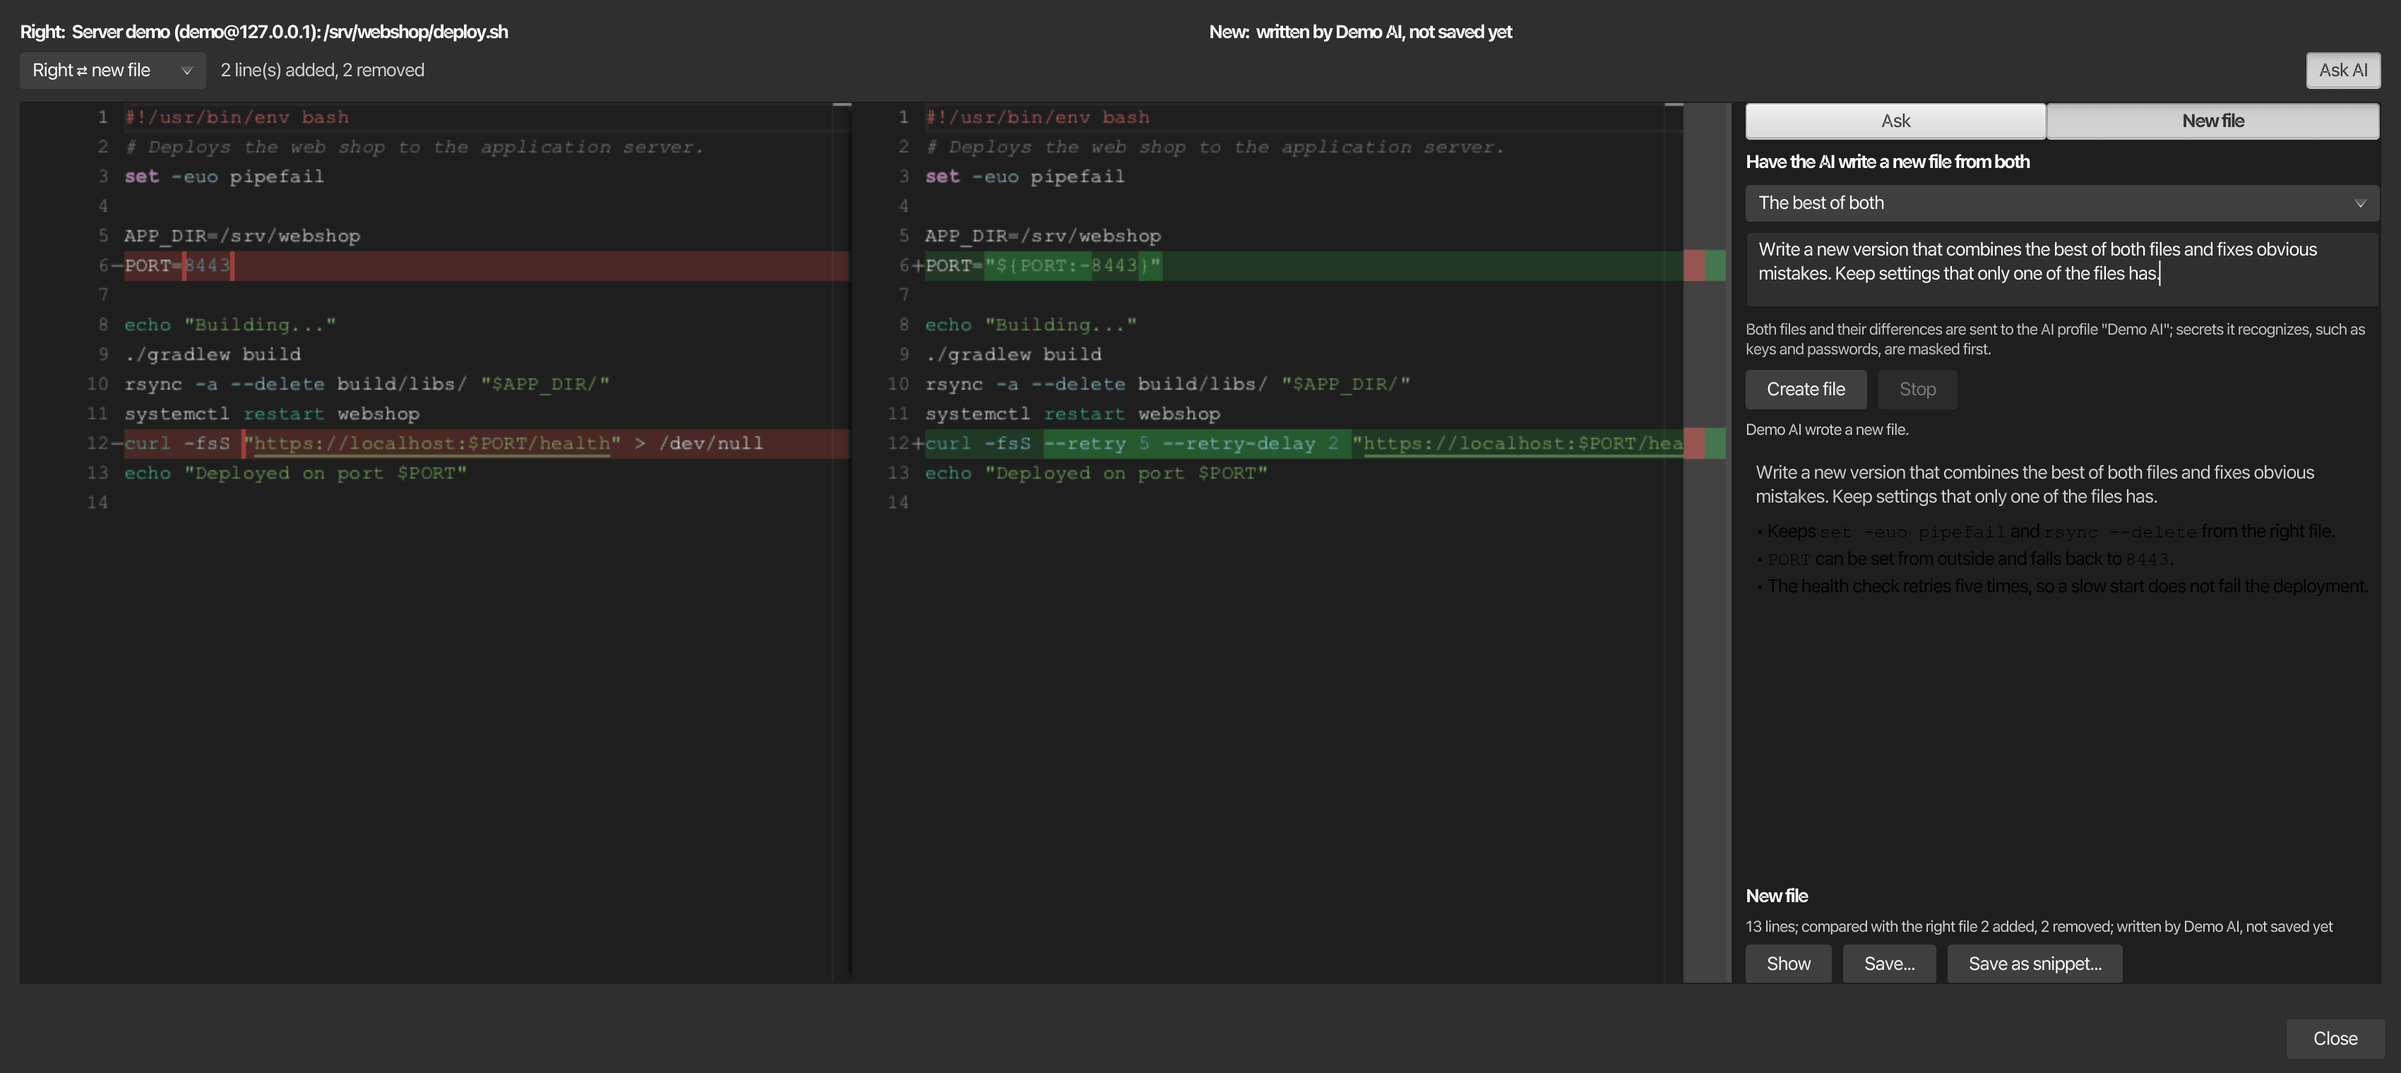
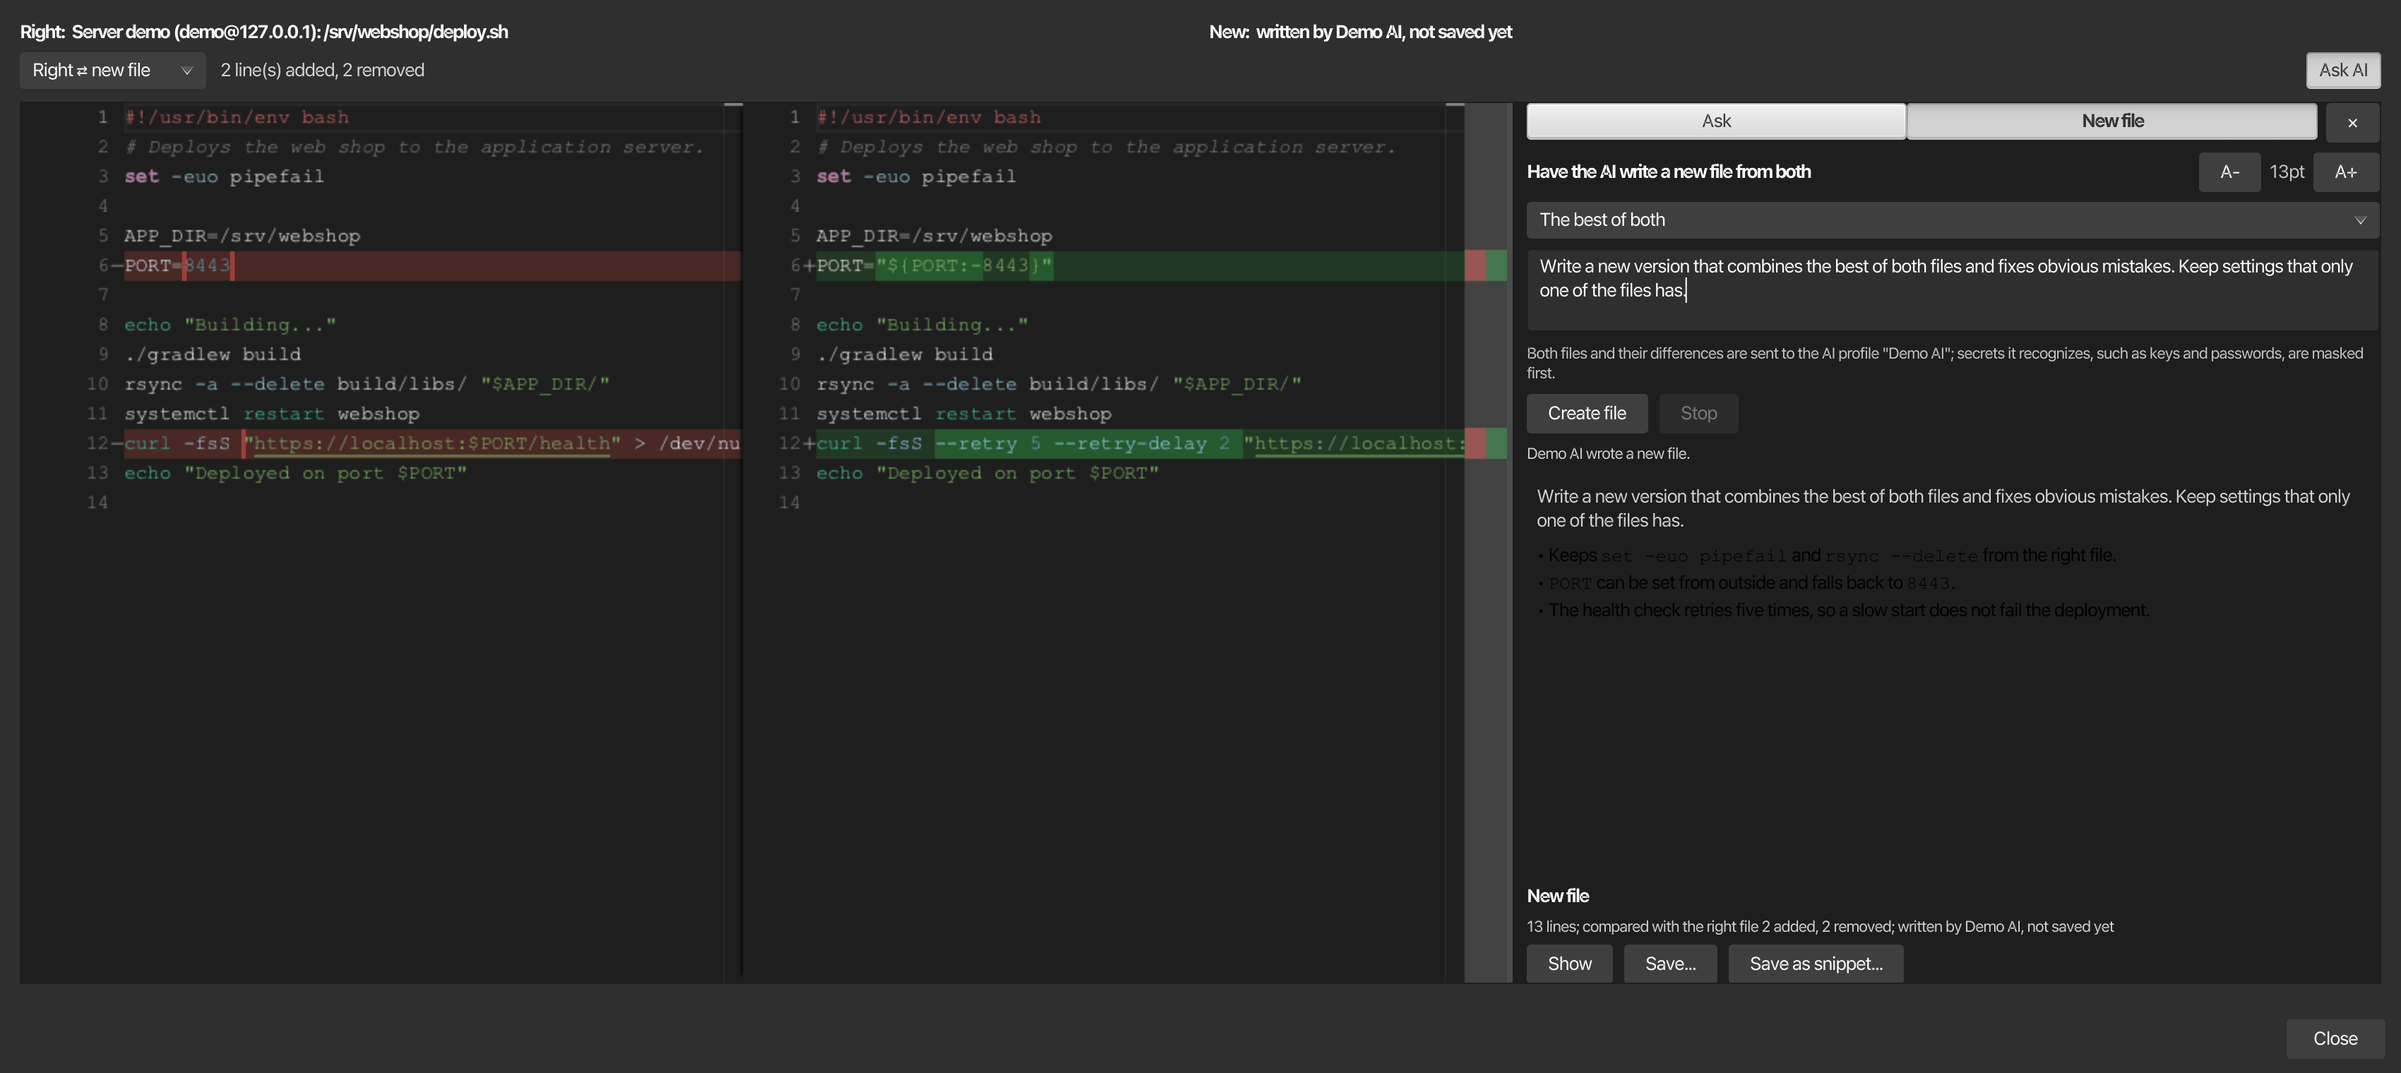
SFTP file comparison: AI panel font size and hide button
- A- and A+ beside the AI panel's title (and Cmd/Ctrl with + and -)
  size the question and the answers from 9 to 32 px; the shown answer is
  drawn again at the new size, a streaming one picks it up itself. The
  size is kept in the global settings (sftpDiffAiFontSize, default 13).
- A cross at the panel's top right hides it and gives its width back to
  the window; "Ask AI" shows it again with the last answer.
- Guide: both controls in "Asking the AI"; German regenerated; the two
  file-diff screenshots show them. Manifest synced to b5d8d935.
- SftpManagerScreenshotGenerator checks A+/A- (size, re-render, saved
  setting) and hiding/showing (panel gone, width given back, answer kept).

Changed region(s): [[0.3118, 0.0928, 0.9976, 0.9276], [0.3429, 0.0928, 0.4676, 0.1855], [0.4676, 0.1237, 0.5612, 0.1546]]

diff --git a/src/main/java/de/kortty/ui/SftpFileDiffDialog.java b/src/main/java/de/kortty/ui/SftpFileDiffDialog.java
@@ -163,7 +163,10 @@ final class SftpFileDiffDialog extends ThemeAwareDialog<Void> {
         "sftp.diff.ai.newFile.leftIntoRight",
         "sftp.diff.ai.newFile.own");
 
-    private static final int ANSWER_FONT_SIZE = 13;
+    /** The AI panel's font size (question and answers) unless one was chosen; kept in the settings. */
+    static final int DEFAULT_AI_FONT_SIZE = 13;
+    static final int MIN_AI_FONT_SIZE = 9;
+    static final int MAX_AI_FONT_SIZE = 32;
     /** How much wider the window gets for the AI panel, so the diff keeps its two columns. */
     static final double AI_PANEL_WIDTH = 460;
 
@@ -210,6 +213,11 @@ final class SftpFileDiffDialog extends ThemeAwareDialog<Void> {
     private String newFile;
     /** Who wrote the new file, or where it was saved last, as its header shows it. */
     private String newFileOrigin;
+    private int aiFontSize = clampAiFontSize(loadAiFontSize());
+    private Label aiFontSizeLabel;
+    /** The last question and its rendered answer (Markdown), drawn again when the font size changes. */
+    private String lastAsked;
+    private String lastAnswer;
 
     SftpFileDiffDialog(Window owner, Side left, Side right, AiAccess ai) {
         this(owner, left, right, ai, null);
@@ -462,9 +470,51 @@ final class SftpFileDiffDialog extends ThemeAwareDialog<Void> {
                 markSelectedMode();
             }
         });
+        // Hides the panel when it is in the way; "Ask AI" brings it back with the last answer.
+        Button hide = new Button("\u2715");
+        hide.getStyleClass().add("sftp-diff-ai-hide");
+        hide.setTooltip(new Tooltip(I18n.get("sftp.diff.ai.hide")));
+        hide.setAccessibleText(I18n.get("sftp.diff.ai.hide"));
+        hide.setOnAction(event -> {
+            askToggle.setSelected(false);
+            showAiPanel(false);
+        });
         HBox modeRow = new HBox(0, askMode, newFileMode);
         modeRow.getStyleClass().add("sftp-diff-ai-modes");
-        panel.getChildren().addAll(modeRow, aiTitle);
+        HBox.setHgrow(modeRow, Priority.ALWAYS);
+        HBox topRow = new HBox(6, modeRow, hide);
+        topRow.setAlignment(Pos.CENTER_LEFT);
+
+        Button smaller = new Button(I18n.get("editor.zoomOut"));
+        smaller.setTooltip(new Tooltip(I18n.get("menu.view.zoomOut")));
+        smaller.setOnAction(event -> changeAiFontSize(-1));
+        Button larger = new Button(I18n.get("editor.zoomIn"));
+        larger.setTooltip(new Tooltip(I18n.get("menu.view.zoomIn")));
+        larger.setOnAction(event -> changeAiFontSize(1));
+        smaller.getStyleClass().add("sftp-diff-ai-smaller");
+        larger.getStyleClass().add("sftp-diff-ai-larger");
+        aiFontSizeLabel = new Label();
+        aiFontSizeLabel.setStyle("-fx-opacity: 0.75;");
+        aiTitle.setMaxWidth(Double.MAX_VALUE);
+        HBox.setHgrow(aiTitle, Priority.ALWAYS);
+        HBox titleRow = new HBox(6, aiTitle, smaller, aiFontSizeLabel, larger);
+        titleRow.setAlignment(Pos.CENTER_LEFT);
+        panel.getChildren().addAll(topRow, titleRow);
+        // Cmd/Ctrl with + and - size the panel's text, as in the other AI windows.
+        panel.addEventFilter(javafx.scene.input.KeyEvent.KEY_PRESSED, event -> {
+            if (!event.isShortcutDown()) {
+                return;
+            }
+            javafx.scene.input.KeyCode code = event.getCode();
+            if (code == javafx.scene.input.KeyCode.PLUS || code == javafx.scene.input.KeyCode.ADD
+                || code == javafx.scene.input.KeyCode.EQUALS) {
+                changeAiFontSize(1);
+                event.consume();
+            } else if (code == javafx.scene.input.KeyCode.MINUS || code == javafx.scene.input.KeyCode.SUBTRACT) {
+                changeAiFontSize(-1);
+                event.consume();
+            }
+        });
 
         List<AiProfile> profiles = ai.profiles();
         AiProfile chosen = ai.defaultProfile() != null ? ai.defaultProfile() : profiles.get(0);
@@ -534,12 +584,80 @@ final class SftpFileDiffDialog extends ThemeAwareDialog<Void> {
         ScrollPane answers = new ScrollPane(answerBox);
         answers.setFitToWidth(true);
         VBox.setVgrow(answers, Priority.ALWAYS);
-        streaming = new AiChatStreamingView(answerBox, () -> ANSWER_FONT_SIZE,
+        streaming = new AiChatStreamingView(answerBox, () -> aiFontSize,
             () -> profileChoice.getValue() != null ? profileChoice.getValue().getName() : "",
             () -> aiStatus.setText(I18n.get("sftp.diff.ai.receiving")));
 
         panel.getChildren().addAll(presets, question, privacyNote, buttons, aiStatus, answers, createNewFileBar());
+        applyAiFontSize();
         return panel;
+    }
+
+    /** Makes the AI panel's text {@code delta} larger or smaller and remembers the size. */
+    private void changeAiFontSize(int delta) {
+        int next = clampAiFontSize(aiFontSize + delta);
+        if (next == aiFontSize) {
+            return;
+        }
+        aiFontSize = next;
+        applyAiFontSize();
+        saveAiFontSize(next);
+    }
+
+    /** Sizes the question and draws the shown answer again; a streaming answer picks it up itself. */
+    private void applyAiFontSize() {
+        aiFontSizeLabel.setText(aiFontSize + "pt");
+        question.setStyle("-fx-font-size: " + aiFontSize + "px;");
+        if (lastAsked != null && (streaming == null || !streaming.isActive())) {
+            renderAnswer();
+        } else if (!answerBox.getChildren().isEmpty() && answerBox.getChildren().get(0) instanceof Label asked) {
+            styleAsked(asked);
+        }
+    }
+
+    /** The question asked last and, once there is one, its answer, at the current size. */
+    private void renderAnswer() {
+        Label asked = new Label(lastAsked);
+        asked.setWrapText(true);
+        styleAsked(asked);
+        answerBox.getChildren().setAll(asked);
+        if (lastAnswer != null) {
+            AiChatRenderSupport.renderInto(answerBox, true, lastAnswer, aiFontSize);
+        }
+    }
+
+    private void styleAsked(Label asked) {
+        asked.setStyle("-fx-font-style: italic; -fx-opacity: 0.8; -fx-font-size: " + aiFontSize + "px;");
+    }
+
+    static int clampAiFontSize(int size) {
+        return Math.max(MIN_AI_FONT_SIZE, Math.min(MAX_AI_FONT_SIZE, size));
+    }
+
+    private static int loadAiFontSize() {
+        de.kortty.model.GlobalSettings settings = SnippetAiDialogSupport.currentSettings();
+        return settings != null && settings.getSftpDiffAiFontSize() != null
+            ? settings.getSftpDiffAiFontSize()
+            : DEFAULT_AI_FONT_SIZE;
+    }
+
+    private static void saveAiFontSize(int size) {
+        try {
+            de.kortty.core.GlobalSettingsManager manager =
+                de.kortty.KorTTYApplication.getInstance().getGlobalSettingsManager();
+            de.kortty.model.GlobalSettings settings = manager.getSettings();
+            if (settings != null) {
+                settings.setSftpDiffAiFontSize(size);
+                manager.save();
+            }
+        } catch (Exception e) {
+            // The size still applies to this window; it is only not remembered.
+            LoggerHolder.LOGGER.warn("Could not save the AI panel's font size", e);
+        }
+    }
+
+    private static final class LoggerHolder {
+        private static final org.slf4j.Logger LOGGER = org.slf4j.LoggerFactory.getLogger(SftpFileDiffDialog.class);
     }
 
     /** What to do with the new file: show it in the diff, save it, keep it as a snippet. Hidden until there is one. */
@@ -644,11 +762,9 @@ final class SftpFileDiffDialog extends ThemeAwareDialog<Void> {
             ? AiFileComparison.newFileRequest(masked.text(), text, ai.connectionName(), languageCode)
             : AiFileComparison.request(masked.text(), text, ai.connectionName(), languageCode);
         AiService service = ai.service(profile);
-        answerBox.getChildren().clear();
-        Label askedText = new Label(text);
-        askedText.setWrapText(true);
-        askedText.setStyle("-fx-font-style: italic; -fx-opacity: 0.8;");
-        answerBox.getChildren().add(askedText);
+        lastAsked = text;
+        lastAnswer = null;
+        renderAnswer();
         AiRequest streamed = request.withStreamListener(streaming.begin());
         Task<AiExecutionResult> task = new Task<>() {
             @Override
@@ -671,15 +787,15 @@ final class SftpFileDiffDialog extends ThemeAwareDialog<Void> {
             } else if (asked == Mode.NEW_FILE) {
                 Optional<AiFileComparison.NewFile> written = AiFileComparison.newFile(content);
                 if (written.isPresent()) {
-                    AiChatRenderSupport.renderInto(answerBox, true, written.get().explanation(), ANSWER_FONT_SIZE);
+                    showAnswer(written.get().explanation());
                     takeNewFile(written.get().content(), profile.getName());
                     aiStatus.setText(I18n.get("sftp.diff.ai.created", profile.getName()));
                 } else {
-                    AiChatRenderSupport.renderInto(answerBox, true, content, ANSWER_FONT_SIZE);
+                    showAnswer(content);
                     aiStatus.setText(I18n.get("sftp.diff.ai.noFile"));
                 }
             } else {
-                AiChatRenderSupport.renderInto(answerBox, true, content, ANSWER_FONT_SIZE);
+                showAnswer(content);
                 aiStatus.setText(I18n.get("sftp.diff.ai.done", profile.getName()));
             }
             ai.recordUsage(profile, request, result);
@@ -697,6 +813,11 @@ final class SftpFileDiffDialog extends ThemeAwareDialog<Void> {
                     error != null && error.getMessage() != null ? error.getMessage() : String.valueOf(error)));
         });
         AiTaskRunner.start(task, "sftp-diff-ai");
+    }
+
+    private void showAnswer(String markdown) {
+        lastAnswer = markdown;
+        renderAnswer();
     }
 
     private void finish(Task<AiExecutionResult> task) {
@@ -812,6 +933,10 @@ final class SftpFileDiffDialog extends ThemeAwareDialog<Void> {
 
     ToggleButton newFileMode() {
         return newFileMode;
+    }
+
+    int aiFontSize() {
+        return aiFontSize;
     }
 
     VBox newFileBar() {

diff --git a/src/test/java/de/kortty/ui/SftpManagerScreenshotGenerator.java b/src/test/java/de/kortty/ui/SftpManagerScreenshotGenerator.java
@@ -571,6 +571,43 @@ public final class SftpManagerScreenshotGenerator {
         check(asked[0].selectedText().contains("RIGHT FILE: ") && asked[0].selectedText().contains("+set -euo pipefail"),
             "both files and their diff are sent");
         check(recorded[0], "the usage is recorded");
+        // A+ and A- size the panel's text, draw the answer again and are remembered in the settings.
+        int fontBefore = fx(() -> aiDialog[0].aiFontSize());
+        int answerParts = fx(() -> aiDialog[0].answerBox().getChildren().size());
+        fx(() -> {
+            ((Button) aiDialog[0].getDialogPane().lookup(".sftp-diff-ai-larger")).fire();
+            ((Button) aiDialog[0].getDialogPane().lookup(".sftp-diff-ai-larger")).fire();
+            return null;
+        });
+        check(fx(() -> aiDialog[0].aiFontSize()) == fontBefore + 2, "A+ makes the text larger");
+        check(fx(() -> aiDialog[0].answerBox().getChildren().size()) == answerParts, "the answer is drawn again, not lost");
+        check(fx(() -> aiDialog[0].question().getStyle()).contains("-fx-font-size: " + (fontBefore + 2) + "px"),
+            "the question grows too");
+        KorTTYApplication settingsApp = field(KorTTYApplication.class, "app");
+        check(Integer.valueOf(fontBefore + 2).equals(fx(() -> settingsApp.getGlobalSettingsManager().getSettings()
+            .getSftpDiffAiFontSize())), "the size is kept in the settings");
+        fx(() -> {
+            ((Button) aiDialog[0].getDialogPane().lookup(".sftp-diff-ai-smaller")).fire();
+            ((Button) aiDialog[0].getDialogPane().lookup(".sftp-diff-ai-smaller")).fire();
+            return null;
+        });
+        check(fx(() -> aiDialog[0].aiFontSize()) == fontBefore, "A- makes it smaller again");
+        // The cross hides the panel and gives the width back; "Ask AI" brings it back with the answer.
+        double widthWithPanel = fx(() -> aiDialog[0].getDialogPane().getScene().getWindow().getWidth());
+        fx(() -> {
+            ((Button) aiDialog[0].getDialogPane().lookup(".sftp-diff-ai-hide")).fire();
+            return null;
+        });
+        check(fx(() -> aiDialog[0].getDialogPane().lookup(".sftp-diff-ai-panel")) == null, "the panel is hidden");
+        check(!fx(() -> aiDialog[0].askToggle().isSelected()), "Ask AI is no longer pressed");
+        check(fx(() -> aiDialog[0].getDialogPane().getScene().getWindow().getWidth()) < widthWithPanel - 300,
+            "the window gives the panel's width back");
+        fx(() -> {
+            aiDialog[0].askToggle().fire();
+            return null;
+        });
+        check(fx(() -> aiDialog[0].getDialogPane().lookup(".sftp-diff-ai-panel")) != null, "Ask AI shows it again");
+        check(fx(() -> aiDialog[0].answerBox().getChildren().size()) == answerParts, "with the last answer");
         settle();
         double after = fx(() -> aiDialog[0].getDialogPane().getScene().getWindow().getWidth());
         check(after > before + 300, "opening the AI panel widens the window, " + before + " -> " + after);

diff --git a/src/main/java/de/kortty/model/GlobalSettings.java b/src/main/java/de/kortty/model/GlobalSettings.java
@@ -872,6 +872,10 @@ public class GlobalSettings {
     @XmlElement
     private Integer aiDescribeFontSize = 14;
 
+    /** Font size of the AI panel beside the SFTP manager's file comparison (question and answers). */
+    @XmlElement
+    private Integer sftpDiffAiFontSize = 13;
+
     /** Font size used in the AI alternative-solutions previews. */
     @XmlElement
     private Integer aiAlternativesFontSize = 14;
@@ -3531,6 +3535,14 @@ public class GlobalSettings {
 
     public void setAiDescribeFontSize(Integer aiDescribeFontSize) {
         this.aiDescribeFontSize = aiDescribeFontSize;
+    }
+
+    public Integer getSftpDiffAiFontSize() {
+        return sftpDiffAiFontSize;
+    }
+
+    public void setSftpDiffAiFontSize(Integer sftpDiffAiFontSize) {
+        this.sftpDiffAiFontSize = sftpDiffAiFontSize;
     }
 
     public Integer getAiAlternativesFontSize() {

diff --git a/app-docs/site/docs/de/features/sftp.md b/app-docs/site/docs/de/features/sftp.md
@@ -129,6 +129,8 @@ Die beiden Dateien öffnen sich nebeneinander in einem Fenster, wobei ihre Ände
 
 **KI fragen** öffnet ein Panel neben den beiden Dateien und erweitert das Fenster dafür, sodass die Dateien nebeneinander bleiben. Wählen Sie eine vorbereitete Frage (wo die Dateien unterschiedlich sind, was die Unterschiede bewirken oder was in der rechten Version verbessert werden könnte) oder schreiben Sie Ihre eigene, wählen Sie das KI-Profil, wenn mehrere vorhanden sind, und klicken Sie auf **Fragen**; die Schaltfläche daneben stoppt die Anfrage. Beide Dateien mit Zeilennummern und ihrem einheitlichen Diff werden an das Profil übergeben, und Geheimnisse, die es erkennt, wie z. B. Schlüssel und Passwörter, werden zunächst maskiert, sofern das Profil nicht auf diesem Computer ausgeführt wird. Die Antwort erscheint unter der Frage, und die Anfrage zählt zur Nutzung des Profils wie jede andere KI-Anfrage. Dies eignet sich für Shell-Skripte und Konfigurationsdateien, bei denen eine geänderte Zeile das Verhalten eines Dienstes verändern kann.
 
+**A-** und **A+** neben dem Titel des Panels verkleinern bzw. vergrößern die Frage und die Antworten, ebenso wie ++ctrl+minus++ und ++ctrl+plus++ (++cmd++ auf macOS); korTTY merkt sich die Größe für den nächsten Vergleich. Wenn das Panel im Weg ist, versteckt der Knopf **✕** in der oberen rechten Ecke es und gibt die Breite wieder an die Dateien zurück; **KI fragen** zeigt es erneut mit der letzten Antwort.
+
 **KI fragen** kann nur angeklickt werden, wenn die KI-Funktionen aktiviert sind, Ihre Organisation KI-Anfragen zulässt und mindestens ein KI-Profil existiert; andernfalls zeigt das Überfahren mit der Maus an, was fehlt.
 
 ### Eine neue Datei aus beiden Dateien

diff --git a/app-docs/site/docs/en/features/sftp.md b/app-docs/site/docs/en/features/sftp.md
@@ -129,6 +129,8 @@ The two files open side by side in a window with their changes marked, like the 
 
 **Ask AI** opens a panel beside the two files and widens the window for it, so the files stay side by side. Pick a prepared question (where the files differ, what the differences do, or what could be improved in the right-hand version) or write your own, choose the AI profile when there are several, and click **Ask**; the button next to it stops the request. Both files with line numbers and their unified diff go to the profile, and secrets it recognizes, such as keys and passwords, are masked first unless the profile runs on this computer. The answer appears below the question, and the request counts towards the profile's usage like any other AI request. This suits shell scripts and configuration files, where a changed line can change what a service does.
 
+**A-** and **A+** next to the title of the panel make the question and the answers smaller or larger, as do ++ctrl+minus++ and ++ctrl+plus++ (++cmd++ on macOS); korTTY remembers the size for the next comparison. When the panel is in the way, the button **✕** at its top right hides it and gives its width back to the files; **Ask AI** shows it again with the last answer.
+
 **Ask AI** can be clicked only when the AI features are on, your organization allows AI requests, and at least one AI profile exists; otherwise hovering over it tells you what is missing.
 
 ### A new file from both files
